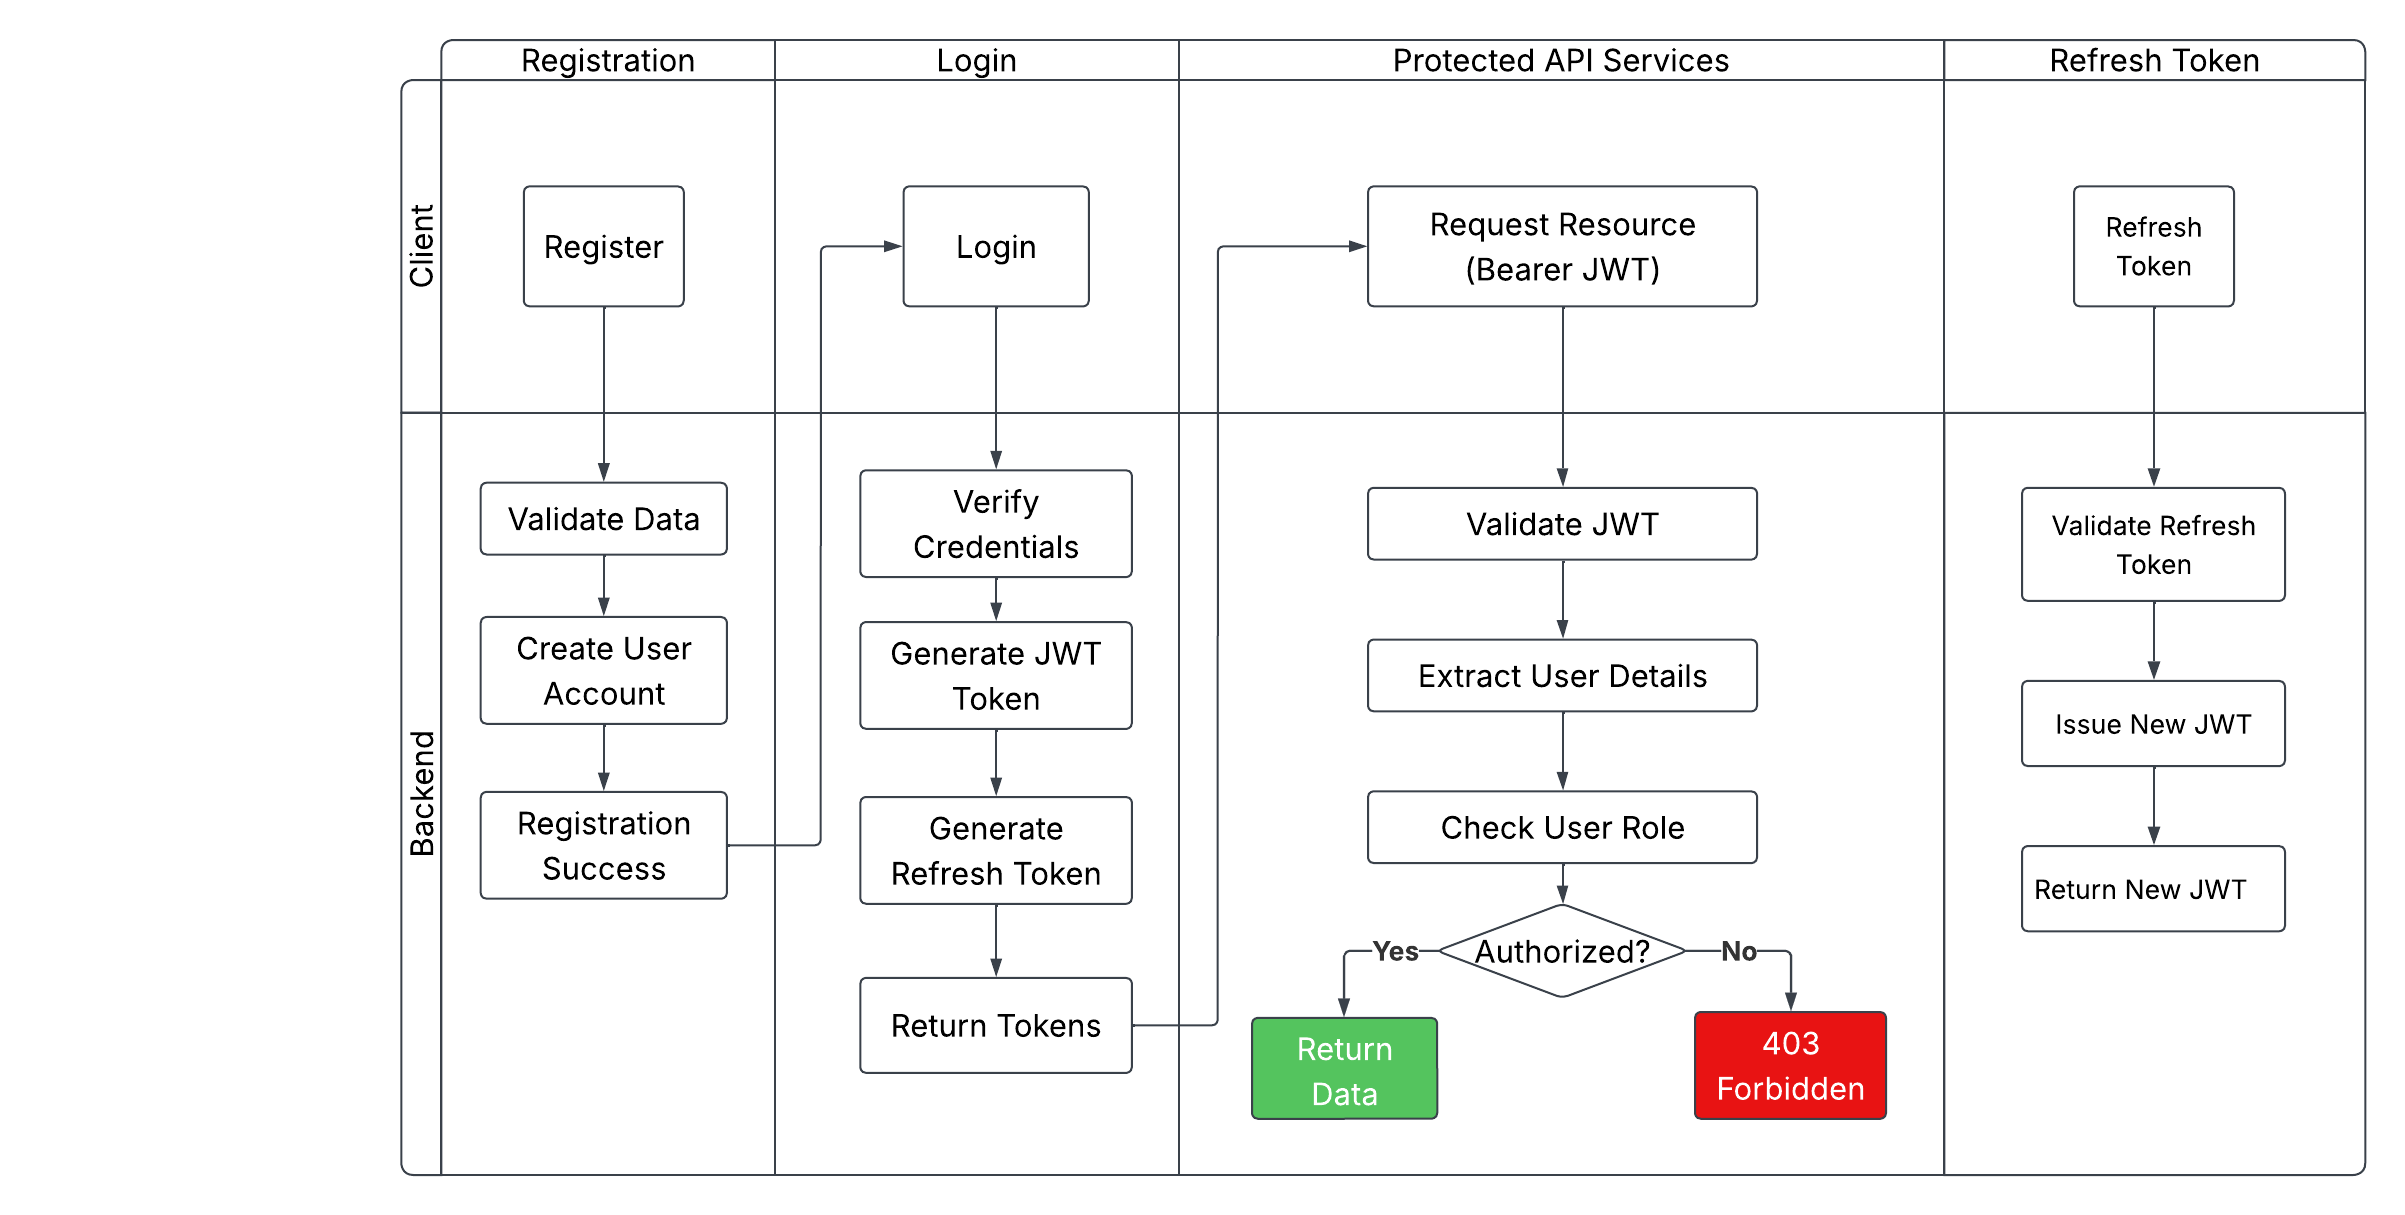
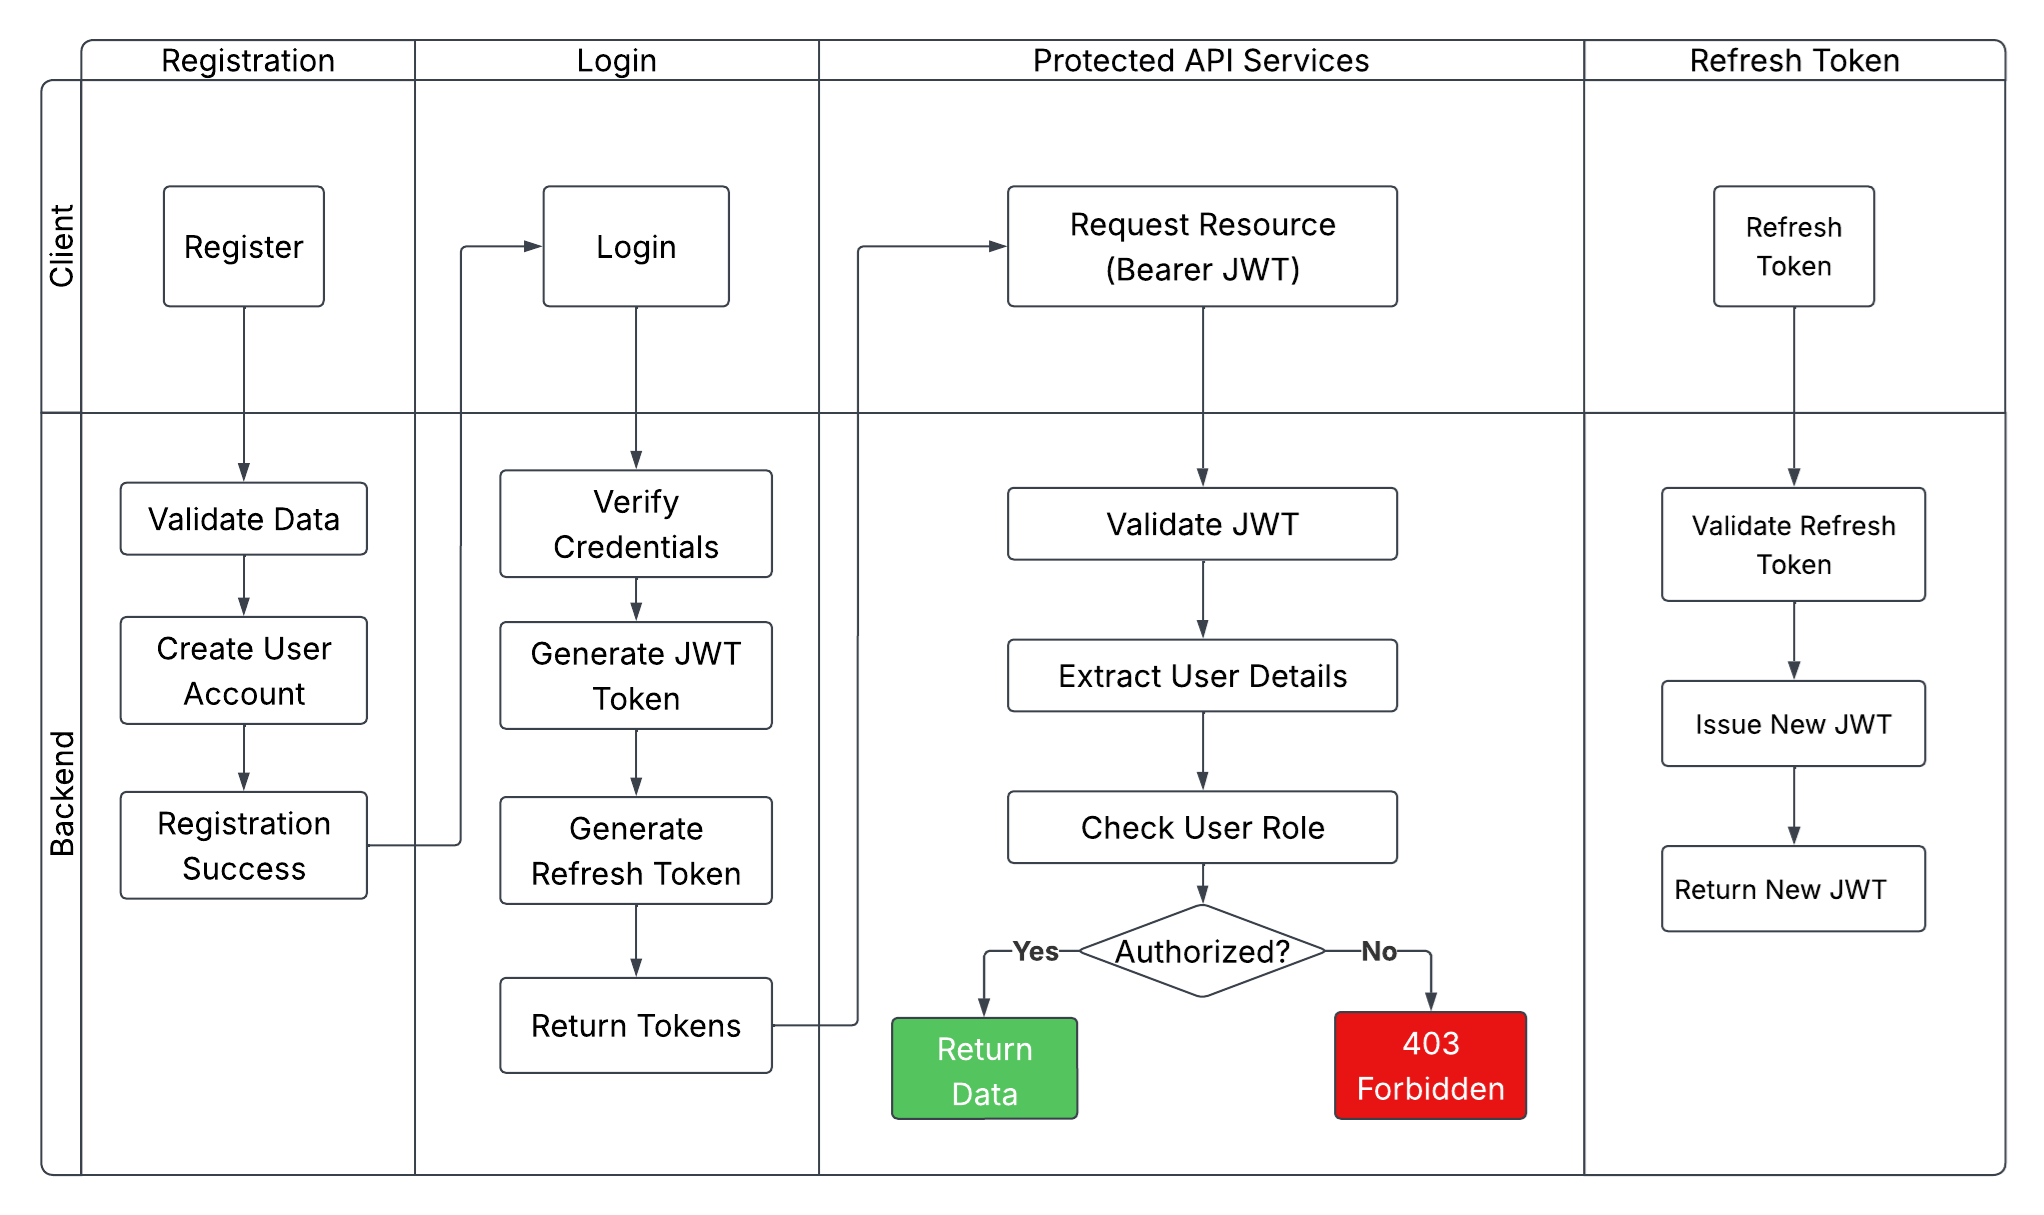
Release phase 3 (#2)
* feat(devops): add Dokcerfile and containerized the system

* feat(devops): add docker compose to workflow backend and postgres database

* feat(devops): add environment specific configuration

* fix: add prod config to for test and removed application example as it's no more needed

* fix(devops): remove profile selection from application.yml to let docker select the profile

* chore(security): externalized secrets and modify environment modifications

* fix(devops): change Dockerfile for multi-stage build

* chore: cleanup Docker file for better readablity

* chore: add test profiles to trigger railway redployment

* fix(deployment): force prod profiles

* fix(Dockerfile): restore Maven build stage removed in c3eefe31 (#1)

* fix(deployment): add missing variable to dockerfile and application-prod

* chore(deployment) add railway json including schema, build and deploy properties

* fix(deployment) make mavnw executable

* fix(dployment): align refresh token name

* fix: change refreshtoken name to much env variables

* fix: fix referesh toke name

* fix(deployment) handle cors and https security issues

* fix(deployment) force swagger to use https

* chore(database): use validate schema in production

* chore(database): integrate flyway for productio db

* chore(database): add database backup sql

* chore(deployment): return back active profile to prod

* chore(database): add minimum idel connection and timeout

* chore(database):  add data seeder for dev
[…]

diff --git a/README.md b/README.md
@@ -155,7 +155,7 @@ The application follows modular monolith architecture (auth, workflow, audit, fi
 ```
 
 ## AUTHENTICATION FLOW
-![Authentication-Flow](docs/images/authentication-flow.png)
+![Authentication flow](docs/images/authentication-flow.png)
 
 ## API DOCUMENTATION
 
@@ -230,7 +230,44 @@ The application is containerized using Docker.
 
 ### Base URL
 
+
+## DEPLOYMENT
+
+The application is containerized using Docker.
+
+**Components:** [Spring Boot API] [PostgreSQL] [NGINX Reverse Proxy]
+
+**Deployment Features:** Environment Variables, Docker Compose, Health Monitoring, Logging
+
+## LOCAL DEVELOPMENT
+
+### Requirements
+- Java 17+
+- PostgreSQL
+- Maven
+
+### Clone Repository
+
+1. git clone https://github.com/birukgebru/workflow-management-backend.git
+
+2. cd workflow-management-backend.git
+
+### Configure
+- Copy **application-example.yml** to **application-dev.yml**
+- Update database credentials and JWT secret 
+
+### Run Application 
+```
+ mvn spring-boot:run
+```
+
+### Base URL
+
 ```text
+http://localhost:8080
+```
+### Swagger
+```
 http://localhost:8080
 ```
 ### Swagger
@@ -238,6 +275,52 @@ http://localhost:8080
 http://localhost:8080/swagger-ui/index.html
 ```
 
+## DOCKER DEPLOYMENT
+
+### Start Services
+```
+docker compose up -d
+```
+
+### Stop Services
+```
+docker compose down
+```
+
+### Services
+![Docker Compose Stack](docs/images/docker-workflow.png)
+
+- workflow-backend
+- workflow-postgres
+- workflow-nginx
+
+## ENVIRONMENT VARIABLES (.env)
+```
+DB_URL=
+DB_USERNAME=
+DB_PASSWORD=
+
+JWT_SECRET=
+JWT_EXPIRATION=
+JWT_REFRESH_EXPIRATION=
+```
+## DEMO USERS
+Seed file is included to add default roles and demo users for demo. 
+
+Password for all users: Pass123
+```
+ADMIN
[email redacted]
+
+REQUESTER
[email redacted]
+
+REVIEWER
[email redacted]
+
+APPROVER
[email redacted]
+```
 ## DOCKER DEPLOYMENT
 
 ### Start Services
@@ -310,6 +393,10 @@ [email redacted]
 - REST API Design
 - Monitoring with Actuator
 - Modular Monolith Architecture
+- Docker Containerization
+- Docker Compose Orchestration
+- NGINX Reverse Proxy
+- CI/CD with GitHub Actions
 - Docker Containerization
 - Docker Compose Orchestration
 - NGINX Reverse Proxy